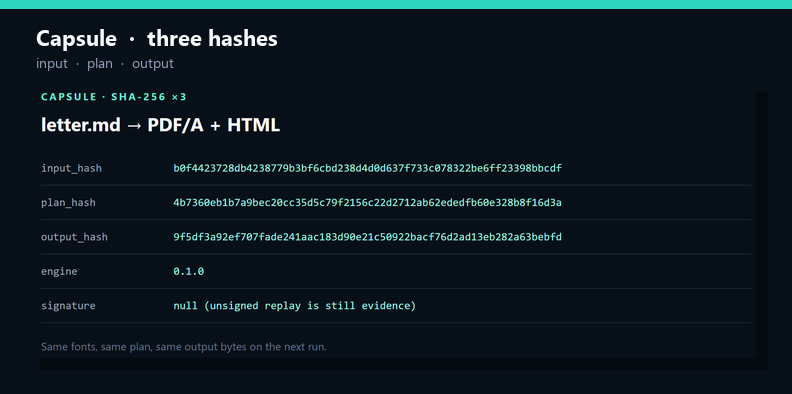
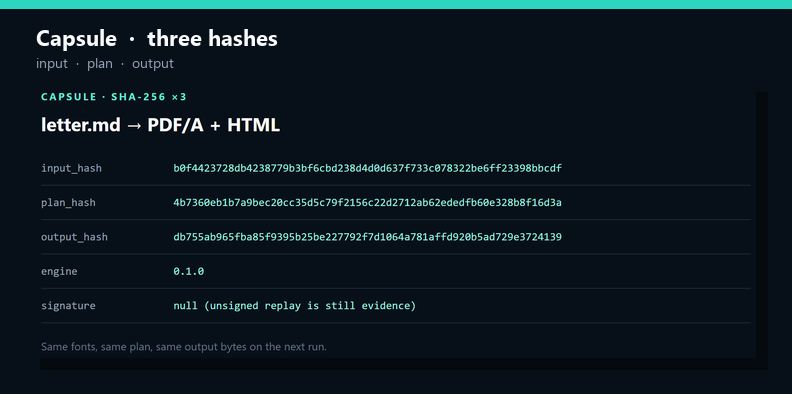
Assert letter.md harbor mark in DOCX and ODT, refresh demo hashes.

Changed region(s): [[0.2121, 0.5787, 0.7273, 0.6091]]

diff --git a/crates/docagent-docx/tests/letter_md.rs b/crates/docagent-docx/tests/letter_md.rs
@@ -1,5 +1,5 @@
-//! `examples/letter.md` → DOCX must store PNG bytes under word/media
-//! once the markdown contains `![`. Until then this test returns early.
+//! `examples/letter.md` → DOCX must include the Harbor mark as `a:blip`
+//! in word/document.xml and PNG bytes under word/media.
 
 use std::io::{Cursor, Read};
 use std::path::Path;
@@ -9,19 +9,32 @@ use zip::ZipArchive;
 const PNG_MAGIC: &[u8] = &[0x89, b'P', b'N', b'G'];
 
 #[test]
-fn letter_md_docx_stores_png_media() {
+fn letter_md_docx_includes_harbor_mark_as_blip() {
     let path = Path::new(env!("CARGO_MANIFEST_DIR")).join("../../examples/letter.md");
     let md = std::fs::read(&path).expect("examples/letter.md");
     let text = std::str::from_utf8(&md).expect("letter.md utf-8");
-    if !text.contains("![") {
-        return;
-    }
+    assert!(
+        text.contains("!["),
+        "examples/letter.md must contain a markdown image"
+    );
 
     let doc = docagent_md::read(&md).expect("docagent-md read letter.md");
     let docx = docagent_docx::write(&doc).expect("docx write");
     assert!(docagent_docx::sniff(&docx), "written bytes must sniff as DOCX");
 
     let mut zip = ZipArchive::new(Cursor::new(docx)).expect("docx zip");
+    let mut document_xml = String::new();
+    {
+        let mut file = zip
+            .by_name("word/document.xml")
+            .expect("word/document.xml");
+        file.read_to_string(&mut document_xml).unwrap();
+    }
+    assert!(
+        document_xml.contains("<a:blip r:embed="),
+        "DOCX from letter.md must include the Harbor picture as a:blip in word/document.xml: {document_xml}"
+    );
+
     let mut found_png = false;
     for i in 0..zip.len() {
         let mut file = zip.by_index(i).unwrap();

diff --git a/crates/docagent-odt/tests/letter_md.rs b/crates/docagent-odt/tests/letter_md.rs
@@ -1,10 +1,12 @@
-//! `examples/letter.md` → ODT must store image bytes under Pictures/
-//! once the markdown contains `![`. Until then this test returns early.
+//! `examples/letter.md` → ODT must emit `draw:image` in content.xml
+//! and store Harbor mark bytes under Pictures/.
 
 use std::io::{Cursor, Read};
 use std::path::Path;
 
 use zip::ZipArchive;
+
+const PNG_MAGIC: &[u8] = &[0x89, b'P', b'N', b'G'];
 
 #[test]
 fn letter_md_odt_stores_picture_bytes() {
@@ -20,6 +22,24 @@ fn letter_md_odt_stores_picture_bytes() {
     assert!(docagent_odt::sniff(&odt), "written bytes must sniff as ODT");
 
     let mut zip = ZipArchive::new(Cursor::new(odt)).expect("odt zip");
+    let mut content = String::new();
+    zip.by_name("content.xml")
+        .expect("content.xml")
+        .read_to_string(&mut content)
+        .unwrap();
+    assert!(
+        content.contains("<draw:image"),
+        "ODT from letter.md must include draw:image: {content}"
+    );
+    assert!(
+        content.contains("Pictures/"),
+        "draw:image must href Pictures/: {content}"
+    );
+    assert!(
+        content.contains("Harbor mark"),
+        "Harbor mark alt must appear on the frame: {content}"
+    );
+
     let mut names = Vec::new();
     for i in 0..zip.len() {
         let name = zip.by_index(i).unwrap().name().replace('\\', "/");
@@ -38,5 +58,9 @@ fn letter_md_odt_stores_picture_bytes() {
             .read_to_end(&mut stored)
             .unwrap();
         assert!(!stored.is_empty(), "{name} must have bytes");
+        assert!(
+            stored.starts_with(PNG_MAGIC),
+            "{name} must be the Harbor PNG"
+        );
     }
 }

diff --git a/docs/loop/STATE.md b/docs/loop/STATE.md
@@ -36,3 +36,7 @@ Shallow score vs the locked ten. `examples/letter.md` has `![Harbor mark](docs/a
 ## Cycle 51 landing (2026-09-06)
 
 GitHub first screen now uses the refreshed convert shots (`output-trio.png`, `output-pdf.png`, `output-html.png`) that show the teal harbor mark under the H2. Dropped every stale / no-picture caption. Capsule hashes on README match `letter-capsule.json`. Capsule / determinism / GPU-free kept. Demo-image gap **closed**. Next gap: PDF page looking as dense as WeasyPrint/MinerU — still no invented numbers. No OCR. No wrap. Hangul still **stop deepening**.
+
+## Cycle 52 (2026-09-06)
+
+Committed finished lanes: DOCX `a:blip` + media PNG from `letter.md`; ODT `draw:image` + Pictures/ PNG; demo capsule/prove/`letter.pdf`/`output-*.png` after the 24pt mark scale. Next: landing lockstep README hashes with capsule; PDF page density vs WeasyPrint/MinerU; demo keep assets in lockstep. docx/odt/mdhtml: do not invent work. No OCR. Hangul still **stop deepening**.
